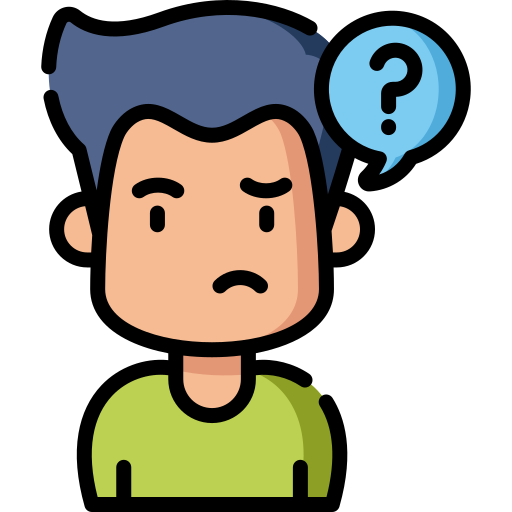
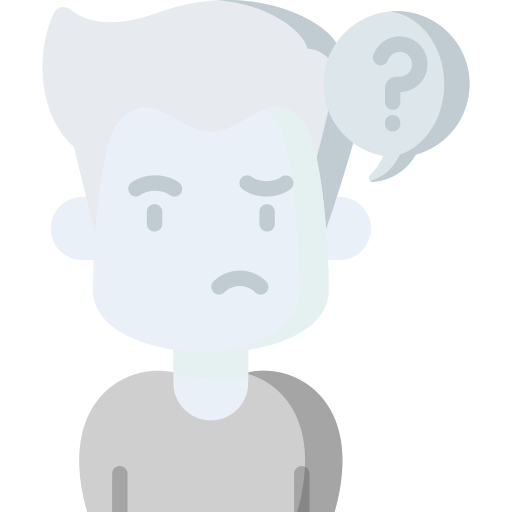
Update 22
Fiz algumas alterações de design na página inicial de administradores e troquei o fundo areia por outro que ficou esteticamente mais agradável.

diff --git a/src/app/componentes/Administradores/Home/Card1/app.jsx b/src/app/componentes/Administradores/Home/Card1/app.jsx
@@ -313,53 +313,63 @@ export default function Card1({ onAvisosChange }) {
   };
 
   return (
+    
     <>
       {exibirErro()}
 
-      <div className={styles.containerWrapper}>
-        <div
-          className={`${styles.containerLembretes} ${
-            lembretes.length === 0 ? styles.containerLembretesVazio : ""
-          }`}
-          ref={containerRef}
-        >
-          {loading && lembretes.length === 0 && (
-            <p className={styles.mensagemCarregando}>Carregando avisos...</p>
-          )}
+      {!loading && lembretes.length === 0 ? (
+        <div className={styles.mensagemVazia}>
+          <img
+            src={`${import.meta.env.BASE_URL}card1/homemConfuso.png`}
+            alt="Ícone Aviso"
+          />
+          <p>Sem avisos por enquanto...</p>
 
-          {!loading && lembretes.length === 0 && (
-            <div className={styles.mensagemVazia}>
-              <img
-                src={`${import.meta.env.BASE_URL}card1/homemConfuso.png`}
-                alt="Ícone Aviso"
-              />
-              <p>Sem avisos por enquanto...</p>
-            </div>
+          {usuarioAdministrador && (
+            <button
+              className={styles.botaoAdicionar}
+              onClick={abrirFormulario}
+              type="button"
+              disabled={loading}
+              title="Adicionar novo aviso"
+            ></button>
           )}
-
-          {lembretes.map((lembrete) => (
-            <Lembrete
-              key={lembrete.id}
-              data={lembrete.data}
-              descricao={lembrete.descricao}
-              corData={lembrete.corData}
-              onRemover={() => removerLembrete(lembrete.id)}
-              isNovo={lembrete.id === ultimoLembreteId}
-              usuarioAdministrador={usuarioAdministrador}
-            />
-          ))}
         </div>
+      ) : (
+        <div className={styles.containerWrapper}>
+          <div className={styles.containerLembretes} ref={containerRef}>
+            {loading && lembretes.length === 0 && (
+              <p className={styles.mensagemCarregando}>
+                Carregando avisos...
+              </p>
+            )}
 
-        {usuarioAdministrador && (
-          <button
-            className={styles.botaoAdicionar}
-            onClick={abrirFormulario}
-            type="button"
-            disabled={loading}
-            title="Adicionar novo aviso"
-          ></button>
-        )}
-      </div>
+            {lembretes.map((lembrete) => (
+              <Lembrete
+                key={lembrete.id}
+                data={lembrete.data}
+                descricao={lembrete.descricao}
+                corData={lembrete.corData}
+                onRemover={() => removerLembrete(lembrete.id)}
+                isNovo={lembrete.id === ultimoLembreteId}
+                usuarioAdministrador={usuarioAdministrador}
+              />
+            ))}
+          </div>
+
+          {usuarioAdministrador && (
+            <button
+              className={styles.botaoAdicionar}
+              onClick={abrirFormulario}
+              type="button"
+              disabled={loading}
+              title="Adicionar novo aviso"
+            >
+              <img src={`${import.meta.env.BASE_URL}adicionarOuRemover/adicionar_branco.png`} />
+            </button>
+          )}
+        </div>
+      )}
 
       {mostrarFormulario && usuarioAdministrador && (
         <div className={styles.modal}>

diff --git a/src/app/componentes/Administradores/Home/Card1/card1.module.css b/src/app/componentes/Administradores/Home/Card1/card1.module.css
@@ -128,26 +128,17 @@
 }
 
 .botaoAdicionar {
-  display: flex;
   position: absolute;
   right: 12px;
   top: 10px;
-  padding-left: 38px;
   width: 36px;
   height: 36px;
   border-radius: 50%;
-  background-image: url(/homeAdms/adicionar.png);
-  background-repeat: no-repeat;
-  background-size: cover;
-  background-position: top left;
-  color: white;
   border: none;
   cursor: pointer;
-  display: flex;
-  align-items: center;
-  justify-content: center;
   transition: transform 0.2s;
   z-index: 100;
+  background-color: red;
 }
 
 .botaoAdicionar:hover {
@@ -155,15 +146,11 @@
   opacity: 0.9;
 }
 
-.botaoAdicionar::before {
-  content: "";
-  position: absolute;
-  font-size: 2.5rem;
-  -webkit-text-stroke-color: #00489a;
-  -webkit-text-stroke-width: 0.08rem;
-  font-weight: 1000;
-  top: -1rem;
-  left: 0.28rem;
+.botaoAdicionar img{
+  width: 900px;
+  position: relative;
+  background-color: #008cff;
+  z-index: 1000000;
 }
 
 .modal {
@@ -276,29 +263,46 @@
 }
 
 .mensagemVazia {
+  position: relative;
   display: flex;
   flex-direction: column;
   justify-content: center;
   align-items: center;
-  width: 90%;
-  height: 90%;
+  width: 100%;
+  max-width: 1200px;
+  height: 100%;
   border-radius: 20px;
   padding: 20px;
-  margin: auto;
-  background-color: rgba(0, 153, 255, 0.13);
+}
+
+.mensagemVazia::before{
+  content:"";
+  position: absolute;
+  width: 100%;
+  height: 100%;
+  top: 0;
+  left: 0;
+  background-image: url(/card1/particulas.png);
+  background-repeat: repeat;
+  background-size: 200px;
+  background-position: top left;
+  opacity: .1;
+  z-index: 1;
 }
 
 .mensagemVazia img {
   width: 100%;
-  max-width: 150px;
+  max-width: 200px;
+  z-index: 2;
+  filter: drop-shadow(-1px 0 1px rgb(0, 18, 36));
 }
 
 .mensagemVazia p {
-  color: white;
+  color: #eaf3f7;
   text-align: center;
   font-weight: 400;
   font-size: 2.5rem;
-  font-family: "Segoe UI", Tahoma, Geneva, Verdana, sans-serif;
+  z-index: 2;
 }
 
 @media (max-width: 700px) {

diff --git a/src/app/componentes/Administradores/Home/PaginaPrincipal/homeAdm.module.css b/src/app/componentes/Administradores/Home/PaginaPrincipal/homeAdm.module.css
@@ -26,18 +26,7 @@
   display: flex;
   flex-direction: column;
   align-items: center;
-  background-color: white;
-  border: 2px solid #6c003b;
   border-radius: 10px;
-}
-
-.tituloCards {
-  display: flex;
-  justify-content: center;
-  padding-block: 10px;
-  font-size: 2rem;
-  text-align: center;
-  width: 100%;
 }
 
 .card1 {
@@ -49,22 +38,41 @@
 .card2 {
   grid-row: 1 / 3;
   padding: 0 20px 20px 20px;
+  background-color: white;
 }
 
 .card3 {
   grid-row: 3 / 11;
-  padding: 5px 20px 20px 20px;
 }
 
-.tituloLembrete {
-  text-decoration: underline;
-  text-decoration-thickness: 2px;
-  text-underline-offset: 4px;
-  font-size: 2.4rem;
-  color: rgba(30, 30, 30, 0.98);
-  padding-top: 5px;
-  width: 100%;
+.card1,
+.card3 {
+  border: 5px solid white;
+}
+
+.card1 h1,
+.card1 h1,
+.card3 h1 {
+  display: flex;
+  justify-content: center;
+  padding-block: 10px;
+  font-size: 2rem;
   text-align: center;
+  width: 100%;
+}
+
+.card1 h1,
+.card3 h1 {
+  background-color: white;
+}
+
+.card1 h1 {
+  border-radius: 3px;
+}
+
+.card3 h1 {
+  border-top-left-radius: 3px;
+  border-top-right-radius: 3px;
 }
 
 @media (max-width: 1100px) {
@@ -95,7 +103,6 @@
     grid-column: 1 / 10;
     grid-row: 9 / 11;
   }
-  
 }
 
 @media (max-width: 700px) {

diff --git a/src/app/componentes/Administradores/Home/PaginaPrincipal/app.jsx b/src/app/componentes/Administradores/Home/PaginaPrincipal/app.jsx
@@ -19,17 +19,17 @@ export default function PaginaInicialAdministradores() {
         <div className={styles.painel}>
           
           <div className={`${styles.padraoCard} ${styles.card1}`}>
-            <h1 className={styles.tituloCards}>Quadro de Avisos</h1>
+            <h1>Quadro de Avisos</h1>
             <Card1 />
           </div>
 
           <div className={`${styles.padraoCard} ${styles.card2}`}>
-            <h1 className={styles.tituloCards}>Lembrete de vacinação</h1>
+            <h1>Lembrete de vacinação</h1>
             <Card2 />
           </div>
 
           <div className={`${styles.padraoCard} ${styles.card3}`}>
-            <h1 className={styles.tituloCards}>Inserir Arquivo</h1>
+            <h1>Inserir Arquivo</h1>
             <Card3 />
           </div>
           

diff --git a/src/app/componentes/Administradores/Home/Card3/card3.module.css b/src/app/componentes/Administradores/Home/Card3/card3.module.css
@@ -12,6 +12,10 @@
   width: 100%;
   gap: 8px;
   margin-bottom: 18px;
+  padding: 10px;
+  background-color: white;
+  border-bottom-left-radius: 5px;
+  border-bottom-right-radius: 5px;
 }
 
 .inputPesquisa,
@@ -157,6 +161,7 @@
   display: grid;
   grid-template-columns: repeat(5, minmax(70px, 1fr));
   align-content: start;
+  padding: 18px;
   gap: 18px 32px;
   width: 100%;
   flex: 1;
